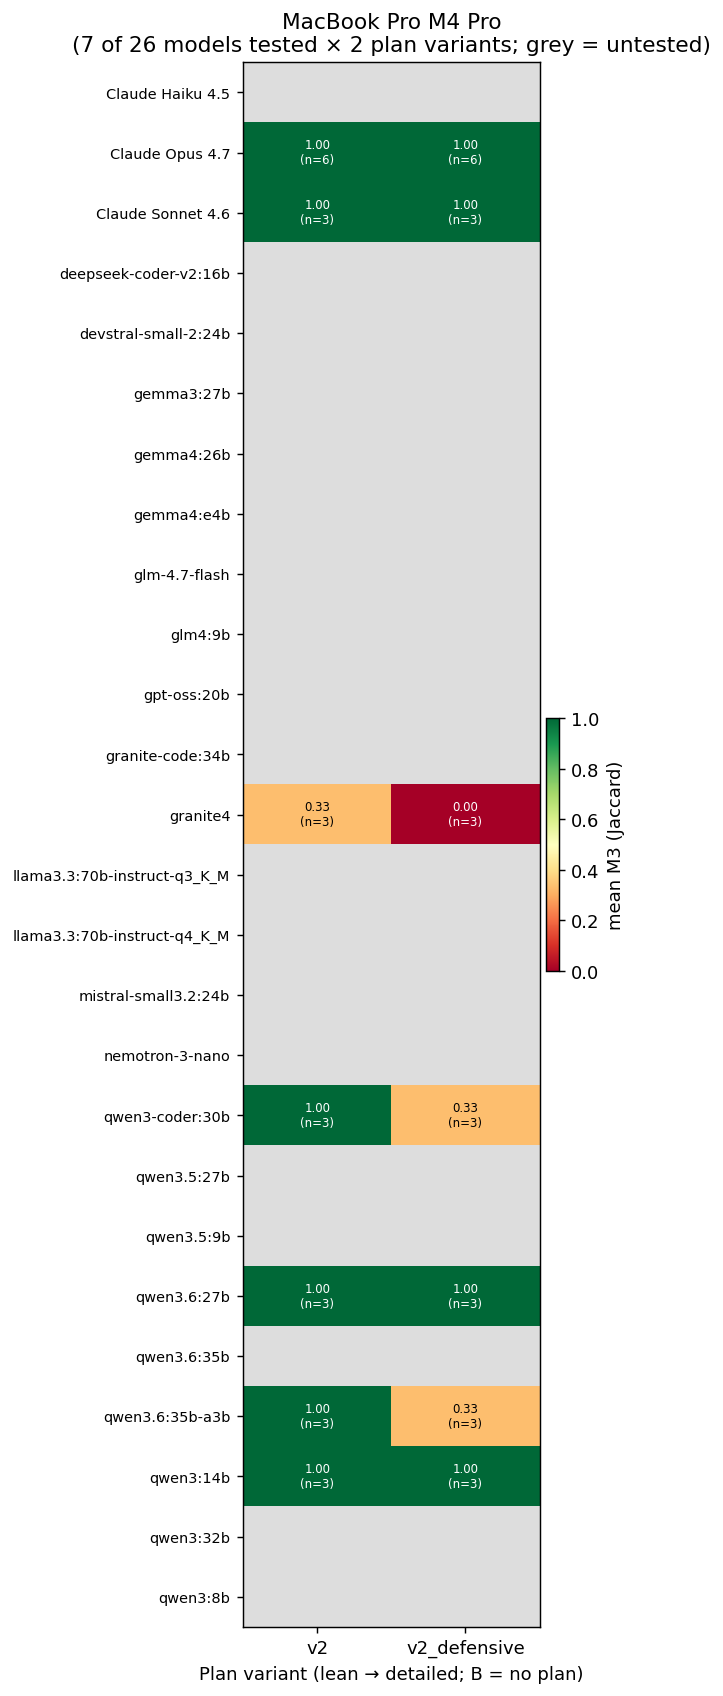
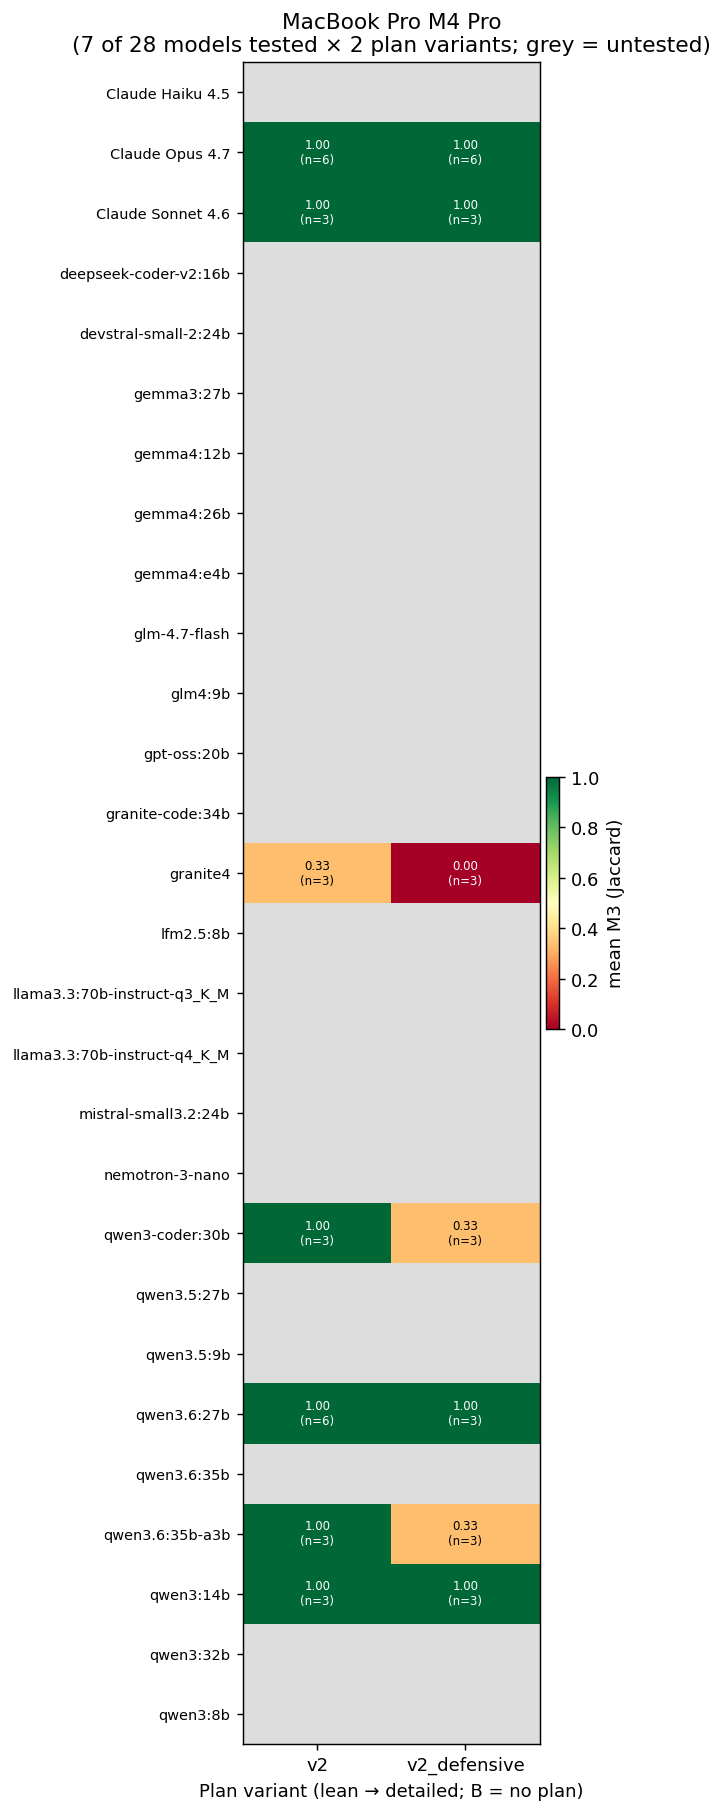
README+figures: surface gemma4:12b (and lfm2.5:8b) from latest sweep
Regenerate fig1 heatmap (+ per-platform set) and fig5 from results.csv so
the two post-sweep Jetson models appear: gemma4:12b joins the v2 perfect
scorers (M3=1.000, ~49s), lfm2.5:8b a think-mode-leak miss (M3=0).
Counts: 25->27 models, 793->799 scored runs, 13/14->14/16 v2 passers.
Table 1 gains both rows. figs 2/3/4/6 untouched (gemma4:12b data does
not reach them).

diff --git a/README.md b/README.md
@@ -1,6 +1,6 @@
 # plan-eval — can a cheap model run a strong model's bioinformatics recipe?
 
-Opus 4.7 wrote a recipe for variant-calling on four mtDNA samples. We gave that recipe to 25 models — three Anthropic tiers plus 22 free open-weight ones — and asked each to turn it into a bash script. We ran the scripts on real data and checked their variant calls against a published answer key. Hardware: Jetson AGX Orin and RTX 5080. Three seeds per cell, several recipe styles, with-recipe and no-recipe runs, plus seven kinds of deliberate tool failure. **793 scored runs.**
+Opus 4.7 wrote a recipe for variant-calling on four mtDNA samples. We gave that recipe to 27 models — three Anthropic tiers plus 24 free open-weight ones — and asked each to turn it into a bash script. We ran the scripts on real data and checked their variant calls against a published answer key. Hardware: Jetson AGX Orin and RTX 5080. Three seeds per cell, several recipe styles, with-recipe and no-recipe runs, plus seven kinds of deliberate tool failure. **799 scored runs.**
 
 ## Abstract
 
@@ -8,7 +8,7 @@ The question: can a small model take a recipe from a strong model and produce a 
 
 Four findings.
 
-**Detail beats model size.** The brief recipe (v1, ~1,200 words of prose) gives M3 ≈ 0 for most local models. The detailed recipe (v2, every command spelled out) gives M3 = 1.000 for 13 of 14 free local models on Jetson at full power. The fastest is `granite4` — 2.1 GB on disk, 15 seconds per run. Anthropic models score 1.000 on both.
+**Detail beats model size.** The brief recipe (v1, ~1,200 words of prose) gives M3 ≈ 0 for most local models. The detailed recipe (v2, every command spelled out) gives M3 = 1.000 for 14 of 16 free local models on Jetson at full power — `gemma4:12b` joins the perfect scorers (1.000, ~49 s/run); the two misses are `nemotron-3-nano` and `lfm2.5:8b`, the latter a think-mode leak that emits its `<think>` reasoning as the script body. The fastest is `granite4` — 2.1 GB on disk, 15 seconds per run. Anthropic models score 1.000 on both.
 
 **The jump is one line.** Adding one literal `lofreq` command to v1 (call that v1.25) brings every dense model ≥ 27 B parameters from M3 ≈ 0 back to 1.000. The limit is not model size but how exotic the tool's command syntax is. Lofreq takes the BAM as a positional argument, not behind a flag; v1's prose did not say so.
 
@@ -55,7 +55,7 @@ Splitting like this lets us measure two things separately. The recipe's quality 
 
 ![Figure 1. Mean M3 by model × plan variant.](figures/fig1_headline_heatmap.png)
 
-Figure 1 shows mean M3 for each model and each recipe variant, both hardware platforms pooled. Rows are 25 models, columns are seven recipe variants from no-recipe (left) to most detailed (right). Cells are colored by score: green is 1.000, red is 0.
+Figure 1 shows mean M3 for each model and each recipe variant, both hardware platforms pooled. Rows are 27 models, columns are seven recipe variants from no-recipe (left) to most detailed (right). Cells are colored by score: green is 1.000, red is 0.
 
 The v2 column is uniformly green. The no-recipe column is red except for the three Anthropic rows. Most non-Anthropic rows jump from red on v1 to green on v2.
 
@@ -223,6 +223,7 @@ n=36 = 12 (pattern, tool) cells × 3 seeds; baseline (no-injection) cells exclud
 | `qwen3.6:35b-a3b` (MoE) | 1.00±0.00 (n=3) | 0.00±0.00 (n=3) | 0.00±0.00 (n=3) | 127 | 100% |
 | `gemma3:27b` | 1.00±0.00 (n=3) | — | — | 259 | 0% |
 | `gemma4:26b` | 1.00±0.00 (n=3) | 0.33±0.58 (n=3) | 0.33±0.58 (n=3) | 121 | 100% |
+| `gemma4:12b` | 1.00±0.00 (n=3) | — | — | 49 | 100% |
 | `gemma4:e4b` | 1.00±0.00 (n=3) | 0.00±0.00 (n=3) | 0.00±0.00 (n=3) | 9 | 100% |
 | `mistral-small3.2:24b` | 1.00±0.00 (n=3) | — | — | 170 | 100% |
 | `devstral-small-2:24b` | 1.00±0.00 (n=3) | — | — | 163 | 0% |
@@ -234,6 +235,7 @@ n=36 = 12 (pattern, tool) cells × 3 seeds; baseline (no-injection) cells exclud
 | `gpt-oss:20b` (MoE) | 0.67±0.58 (n=3) | 0.00±0.00 (n=2) | 0.00 (n=1) | 174 | 83% |
 | `llama3.3:70b-instruct-q3_K_M` | 1.00±0.00 (n=3) | — | — | 255 | 100% |
 | `nemotron-3-nano` (24 B) | 0.00±0.00 (n=3) | — | — | 22 | 0% |
+| `lfm2.5:8b` | 0.00±0.00 (n=3) | — | — | 96 | 0% |
 | `olmo-3.1:32b` | timeout (n=3, ≥900 s) | — | — | — | — |
 
 Mean v2 generation seconds are computed over seeds 42/43/44 of the (model × v2) cell on whichever hardware the model was tested. M5 pass is the fraction of v2 Track A runs satisfying all five script-quality flags (§4). Where a model is untested at a given (plan, track) cell the entry is "—". M3 standard deviations are computed over the n seeds in each cell; cells with `±0.58` reflect the inevitable n=3 std of a {0, 0, 1} or {1, 1, 0} pattern.
